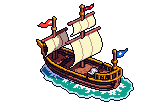
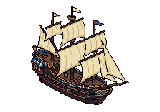
Add USDS titan hull sprite and rendering pipeline
Registers sky-dollar (USDS) as a dedicated titan-class ship: new usds-titan.png
sprite, peg/trim marks, sail-tint mask polygons, and ship-visuals mappings for
usds-sky. Scale sits at 1.6 between USDC (1.8) and a blank slot below USDT (2.0).
Also corrects the usdc-titan sail mask bounds that drifted in the last sprite bake.

diff --git a/src/systems/ship-visuals.test.ts b/src/systems/ship-visuals.test.ts
@@ -119,13 +119,19 @@ describe("resolveShipVisual", () => {
     ]);
   });
 
-  it("gives USDC and USDT dedicated titan hull treatments", () => {
+  it("gives USDC, USDS, and USDT dedicated titan hull treatments", () => {
     const meta = makeMeta({ governance: "centralized" });
+    const dependentMeta = makeMeta({ governance: "centralized-dependent" });
     const usdc = resolveShipVisual(makeAsset({
       id: "usdc-circle",
       symbol: "USDC",
       circulating: { peggedUSD: 50_000_000_000 },
     }), meta, null);
+    const usds = resolveShipVisual(makeAsset({
+      id: "usds-sky",
+      symbol: "USDS",
+      circulating: { peggedUSD: 8_000_000_000 },
+    }), dependentMeta, null);
     const usdt = resolveShipVisual(makeAsset({
       id: "usdt-tether",
       symbol: "USDT",
@@ -136,11 +142,17 @@ describe("resolveShipVisual", () => {
     expect(usdc.spriteAssetId).toBe("ship.usdc-titan");
     expect(usdc.sizeTier).toBe("titan");
     expect(usdc.sizeLabel).toBe("Titan");
+    expect(usds.hull).toBe("chartered-brigantine");
+    expect(usds.spriteAssetId).toBe("ship.usds-titan");
+    expect(usds.sizeTier).toBe("titan");
+    expect(usds.sizeLabel).toBe("Titan");
     expect(usdt.spriteAssetId).toBe("ship.usdt-titan");
     expect(usdt.sizeTier).toBe("titan");
     expect(usdt.sizeLabel).toBe("Titan");
+    expect(usds.scale).toBe(1.6);
     expect(usdc.scale).toBe(1.8);
     expect(usdt.scale).toBe(2);
+    expect(usds.scale).toBeLessThan(usdc.scale);
     expect(usdt.scale).toBeGreaterThan(usdc.scale);
   });
 });

diff --git a/src/renderer/ship-sail-tint.ts b/src/renderer/ship-sail-tint.ts
@@ -55,11 +55,21 @@ export const SHIP_SAIL_TINT_MASKS: Record<string, SailMaskSpec> = {
     ],
   },
   "ship.usdc-titan": {
-    bounds: { x: 34, y: 4, width: 98, height: 92 },
+    bounds: { x: 34, y: 8, width: 96, height: 90 },
     polygons: [
-      [[36, 66], [76, 8], [84, 91]],
-      [[80, 17], [104, 12], [104, 76], [82, 71]],
-      [[103, 22], [128, 38], [120, 82], [103, 76]],
+      [[40, 56], [70, 18], [77, 82], [48, 76]],
+      [[70, 25], [96, 16], [97, 76], [74, 73]],
+      [[95, 28], [125, 43], [116, 84], [96, 76]],
+      [[101, 60], [126, 72], [116, 93], [99, 83]],
+    ],
+  },
+  "ship.usds-titan": {
+    bounds: { x: 26, y: 18, width: 96, height: 76 },
+    polygons: [
+      [[31, 70], [60, 20], [67, 84], [42, 78]],
+      [[58, 28], [80, 18], [80, 72], [60, 68]],
+      [[79, 25], [105, 35], [99, 76], [80, 71]],
+      [[96, 43], [121, 58], [109, 90], [96, 78]],
     ],
   },
   "ship.usdt-titan": {

diff --git a/src/renderer/layers/ships.ts b/src/renderer/layers/ships.ts
@@ -31,6 +31,7 @@ const SHIP_PEG_MARKS: Record<string, { size: number; x: number; y: number }> = {
   "dao-schooner": { size: 5.3, x: -17, y: -43 },
   "treasury-galleon": { size: 5.8, x: -19, y: -47 },
   "ship.usdc-titan": { size: 7.6, x: -33, y: -73 },
+  "ship.usds-titan": { size: 7.2, x: -29, y: -65 },
   "ship.usdt-titan": { size: 8.4, x: -41, y: -84 },
 };
 
@@ -77,6 +78,12 @@ const SHIP_TRIM_MARKS: Record<string, ShipTrimSpec> = {
     keel: [-48, -5, 42, 0],
     stern: { x: -60, y: -27, width: 16, height: 7 },
     deck: [{ x: -17, y: -31, width: 13, height: 6 }, { x: 13, y: -27, width: 11, height: 5 }],
+  },
+  "ship.usds-titan": {
+    rail: [-44, -18, 40, -8],
+    keel: [-40, -5, 35, 0],
+    stern: { x: -48, y: -26, width: 14, height: 6 },
+    deck: [{ x: -14, y: -29, width: 11, height: 5 }, { x: 12, y: -25, width: 10, height: 4 }],
   },
   "ship.usdt-titan": {
     rail: [-66, -23, 61, -12],

diff --git a/src/renderer/ship-sail-tint.test.ts b/src/renderer/ship-sail-tint.test.ts
@@ -11,6 +11,7 @@ const SHIP_ASSET_FILES: Record<string, string> = {
   "ship.dao-schooner": "dao-schooner.png",
   "ship.treasury-galleon": "treasury-galleon.png",
   "ship.usdc-titan": "usdc-titan.png",
+  "ship.usds-titan": "usds-titan.png",
   "ship.usdt-titan": "usdt-titan.png",
 };
 
@@ -21,6 +22,7 @@ const MIN_SAIL_COVERAGE: Record<string, number> = {
   "ship.dao-schooner": 0.34,
   "ship.treasury-galleon": 0.34,
   "ship.usdc-titan": 0.38,
+  "ship.usds-titan": 0.38,
   "ship.usdt-titan": 0.38,
 };
 

diff --git a/src/systems/ship-visuals.ts b/src/systems/ship-visuals.ts
@@ -58,11 +58,13 @@ const UNKNOWN_CLASS: ShipClassDefinition = {
 
 const TITAN_SHIP_ASSET_IDS: Record<string, string> = {
   "usdc-circle": "ship.usdc-titan",
+  "usds-sky": "ship.usds-titan",
   "usdt-tether": "ship.usdt-titan",
 };
 
 const TITAN_SHIP_SCALES: Record<string, number> = {
   "usdc-circle": 1.8,
+  "usds-sky": 1.6,
   "usdt-tether": 2,
 };
 
